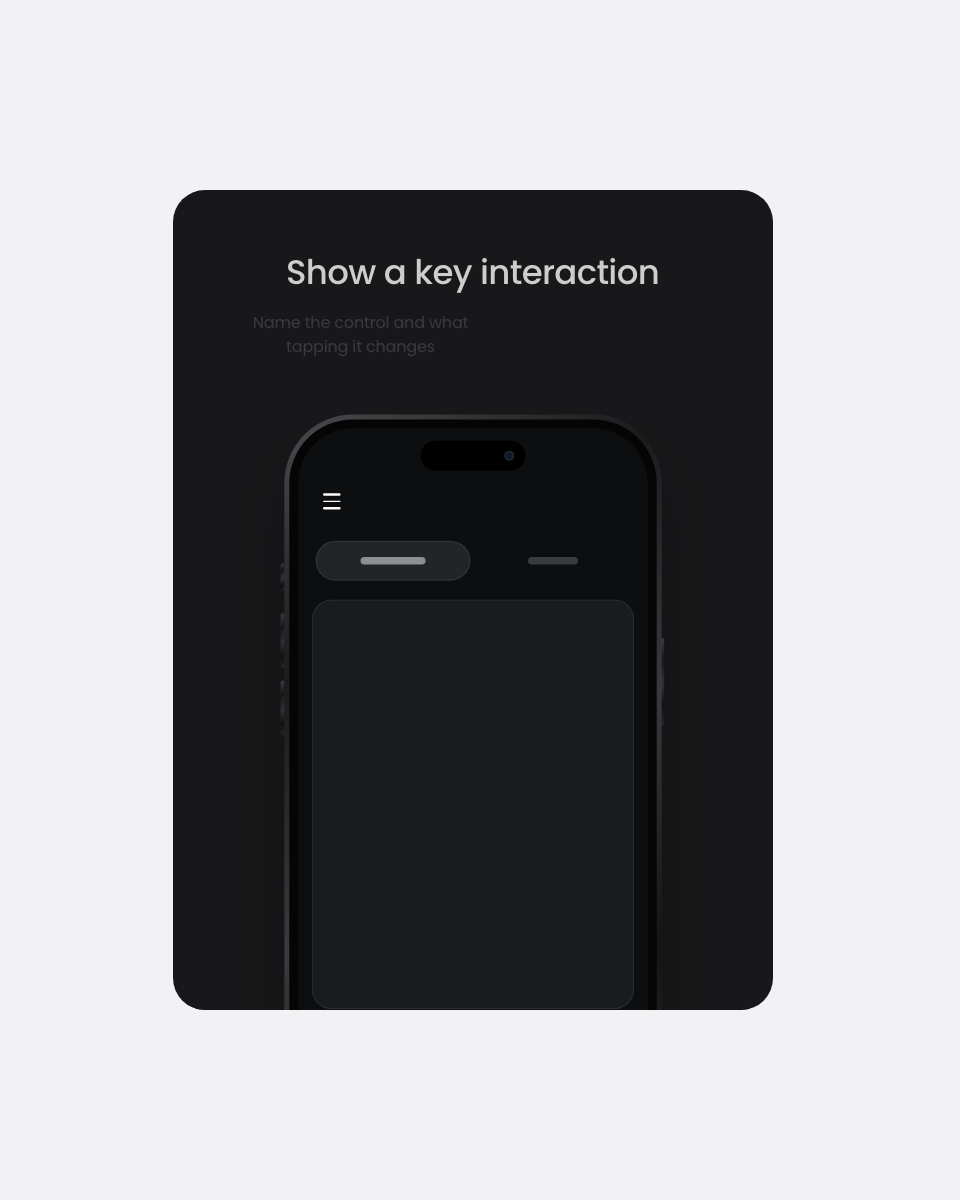
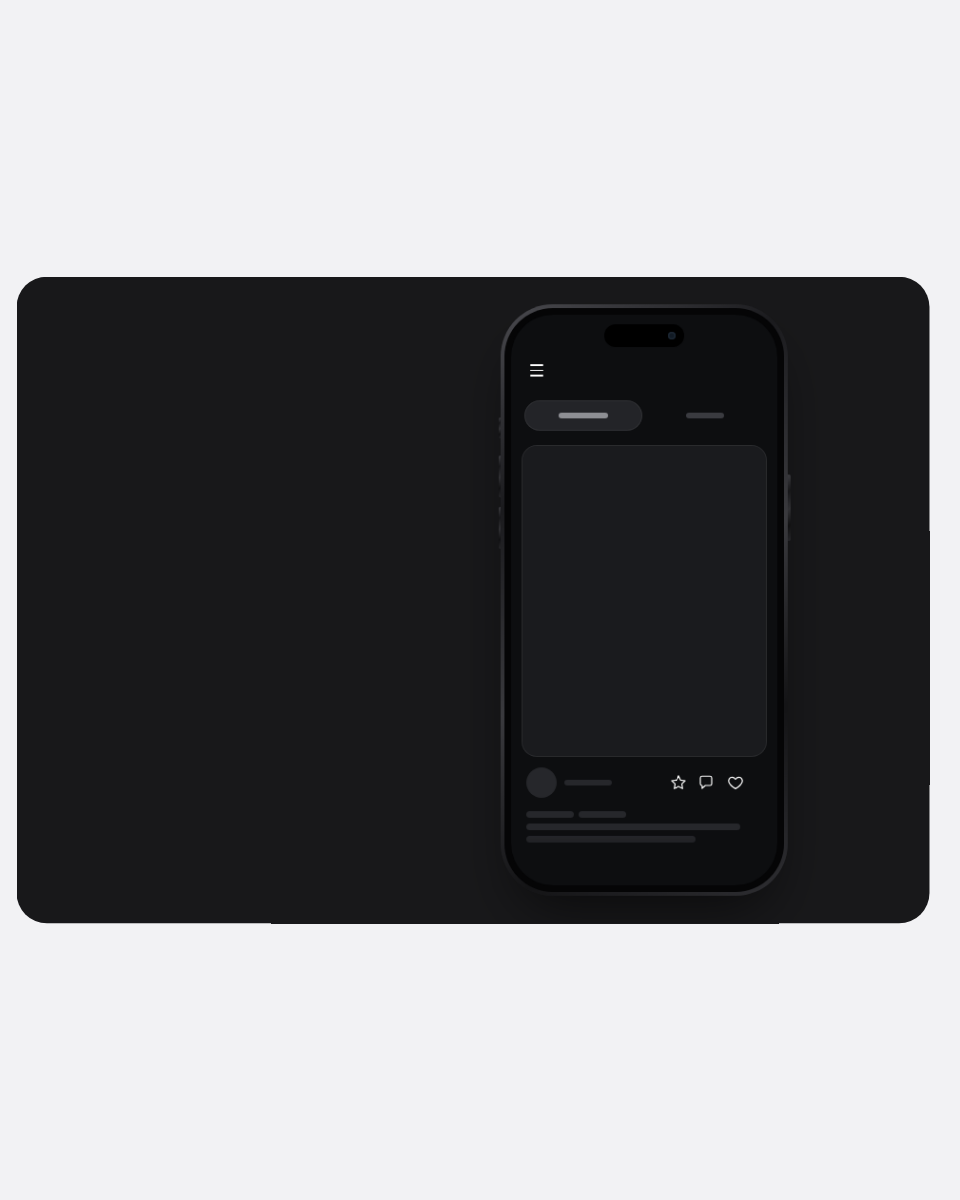
UI Walkthrough: before and after slider and labelled callout steps, capped zoom, 30px titles, credit Atomic Motion [skip deploy]

diff --git a/components/showcase/ui-walkthrough/ui-walkthrough.tsx b/components/showcase/ui-walkthrough/ui-walkthrough.tsx
@@ -22,6 +22,10 @@ export type WalkthroughStep = {
   tap?: string;
   /** Seconds into the step when the press lands. Defaults to 1.6, just after the camera settles. */
   tapAt?: number;
+  /** A before and after: this screen sits under a divider that a finger drags across the live one. */
+  compare?: (ctx: WalkthroughContext) => React.ReactNode;
+  /** Ring a data-walk element and run a short line from it to a small label beside the phone. */
+  callout?: { target: string; label: string };
 };
 
 export type WalkthroughContext = {
@@ -57,6 +61,11 @@ export type UIWalkthroughProps = {
 const PHONE_W = 280;
 const PHONE_H = 600;
 
+/** The words' column in the wide layout, and the gap the phone keeps from it however far the camera
+ *  pushes in. */
+const COPY_W = 320;
+const COPY_GAP = 40;
+
 /** Each layout's true stage size, phone centre and copy box. The stage is scaled down to fit
  *  whatever it is put in. */
 const LAYOUTS = {
@@ -65,7 +74,7 @@ const LAYOUTS = {
     h: 680,
     phone: { x: 660, y: 340 },
     viewTop: 0,
-    copy: { left: 88, top: "50%", width: 360, transform: "translateY(-50%)" },
+    copy: { left: 88, top: "50%", width: COPY_W, transform: "translateY(-50%)" },
   },
   stacked: {
     w: 600,
@@ -319,7 +328,7 @@ function Post({
     <div style={{ position: "absolute", left: 0, right: 0, top, height: POST_H }}>
       <div style={{ position: "absolute", left: 0, right: 0, top: 0, height: 328, ...ctx.enter(2) }}>{card}</div>
       <div style={{ position: "absolute", inset: 0, ...ctx.enter(3) }}>
-        <div style={{ position: "absolute", left: 5, top: 339, width: 32, height: 32, borderRadius: "50%", background: SKELETON }} />
+        <div data-walk={heart ? "avatar" : undefined} style={{ position: "absolute", left: 5, top: 339, width: 32, height: 32, borderRadius: "50%", background: SKELETON }} />
         <div style={{ ...bar(45, 352, 50), height: 6 }} />
         <Icon path={ICONS.star} style={{ position: "absolute", left: 156, top: 346 }} />
         <Icon path={ICONS.comment} style={{ position: "absolute", left: 185, top: 346 }} />
@@ -407,12 +416,46 @@ function SkeletonFeed({ ctx, fade }: { ctx: WalkthroughContext; fade: boolean })
   );
 }
 
+/** The same moment in an older, boxier, busier version of the feed, for the before and after. */
+function SkeletonFeedBefore() {
+  const dim = "#3a3b40";
+  const line = (top: number, width: number): React.CSSProperties => ({ position: "absolute", left: 16, top, width, height: 6, borderRadius: 2, background: "#2a2b2f" });
+  return (
+    <div style={{ position: "absolute", inset: 0, background: "#141518" }}>
+      {/* A solid app bar with a title block */}
+      <div style={{ position: "absolute", left: 0, right: 0, top: 0, height: 86, background: "#1d1e21" }} />
+      <span style={{ position: "absolute", left: 20, top: 56, width: 70, height: 8, borderRadius: 2, background: dim }} />
+      <span style={{ position: "absolute", right: 20, top: 52, width: 16, height: 16, borderRadius: 3, background: dim }} />
+      {/* Underlined tabs */}
+      <span style={{ position: "absolute", left: 44, top: 102, width: 52, height: 6, borderRadius: 2, background: dim }} />
+      <span style={{ position: "absolute", left: 184, top: 102, width: 40, height: 6, borderRadius: 2, background: "#6e6f74" }} />
+      <span style={{ position: "absolute", left: 140, top: 118, width: 140, height: 2, background: "#6e6f74" }} />
+      <span style={{ position: "absolute", left: 0, top: 120, width: 280, height: 1, background: "#26272b" }} />
+      {/* A smaller, square card */}
+      <div style={{ position: "absolute", left: 11, right: 11, top: 137, height: 250, borderRadius: 4, background: "#2a2b2f" }} />
+      <span style={{ position: "absolute", left: 16, top: 400, width: 30, height: 30, borderRadius: 4, background: dim }} />
+      <span style={{ position: "absolute", left: 54, top: 412, width: 60, height: 6, borderRadius: 2, background: dim }} />
+      {[168, 192, 216].map((left) => (
+        <span key={left} style={{ position: "absolute", left, top: 408, width: 14, height: 14, borderRadius: 3, background: dim }} />
+      ))}
+      <div style={line(446, 240)} />
+      <div style={line(458, 220)} />
+      <div style={line(470, 236)} />
+      <div style={line(482, 180)} />
+      <div style={line(494, 210)} />
+      <div style={{ position: "absolute", left: 11, right: 11, top: 516, height: 120, borderRadius: 4, background: "#2a2b2f" }} />
+    </div>
+  );
+}
+
 /** The default script, written for the skeleton feed. Copy it as a starting point for your own. */
 export const defaultWalkthroughSteps: WalkthroughStep[] = [
   { title: "Introduce your app", caption: "One line on what it does and who it is for", duration: 3.4 },
-  { title: "Show a key interaction", caption: "Name the control and what tapping it changes", duration: 4.2, focus: { y: TABS_Y, zoom: 1.6 }, tap: "for-you" },
+  { title: "Show a key interaction", caption: "Name the control and what tapping it changes", duration: 4.2, focus: { y: TABS_Y, zoom: 1.4 }, tap: "for-you" },
   { title: "Walk through a flow", caption: "Say what happens as the screen moves on", duration: 3.6 },
-  { title: "Highlight a detail", caption: "Point out the small touch you are proud of", duration: 4.2, focus: { y: ACTIONS_Y, zoom: 1.6 }, tap: "like" },
+  { title: "Highlight a detail", caption: "Point out the small touch you are proud of", duration: 4.2, focus: { y: ACTIONS_Y, zoom: 1.4 }, tap: "like" },
+  { title: "Show the before and after", caption: "Slide from the old screen to the new one", duration: 4.4, compare: () => <SkeletonFeedBefore /> },
+  { title: "Explain one element", caption: "Point to a part and say why it is there", duration: 4, callout: { target: "avatar", label: "Name this part" } },
   { title: "Close with the outcome", caption: "Sum up what people get from it", duration: 3 },
 ];
 
@@ -501,6 +544,9 @@ function DynamicIsland() {
   );
 }
 
+type Box = { x: number; y: number; w: number; h: number };
+const lerp = (a: number, b: number, p: number) => a + (b - a) * p;
+
 /* ------------------------------------------------------------------------- */
 /* The stage                                                                  */
 /* ------------------------------------------------------------------------- */
@@ -516,19 +562,32 @@ export function UIWalkthrough({ steps = defaultWalkthroughSteps, children, fade 
 
   // Where the tapped control sits on the phone canvas, for the touch. Measured per step;
   // dividing by the rendered width undoes both the fit scale and the camera zoom.
+  // The callout's element is measured the same way, as a box.
   const [rippleAt, setRippleAt] = React.useState<{ x: number; y: number } | null>(null);
+  const [calloutBox, setCalloutBox] = React.useState<Box | null>(null);
   React.useLayoutEffect(() => {
     const phone = phoneRef.current;
-    const target = current?.tap ? phone?.querySelector<HTMLElement>(`[data-walk="${current.tap}"]`) : null;
-    if (!phone || !target) return setRippleAt(null);
+    if (!phone) return;
     const p = phone.getBoundingClientRect();
-    const r = target.getBoundingClientRect();
     const unit = p.width / PHONE_W;
-    setRippleAt({ x: (r.left + r.width / 2 - p.left) / unit, y: (r.top + r.height / 2 - p.top) / unit });
-  }, [ctx.step, current?.tap]);
+    const box = (id?: string): Box | null => {
+      const target = id ? phone.querySelector<HTMLElement>(`[data-walk="${id}"]`) : null;
+      if (!target) return null;
+      const r = target.getBoundingClientRect();
+      return { x: (r.left - p.left) / unit, y: (r.top - p.top) / unit, w: r.width / unit, h: r.height / unit };
+    };
+    const tapBox = box(current?.tap);
+    setRippleAt(tapBox ? { x: tapBox.x + tapBox.w / 2, y: tapBox.y + tapBox.h / 2 } : null);
+    setCalloutBox(box(current?.callout?.target));
+  }, [ctx.step, current?.tap, current?.callout?.target]);
 
-  const zoom = reduced ? 1 : sample(timeline.zoom, t, cameraEase);
-  const shift = reduced ? 0 : sample(timeline.shift, t, cameraEase);
+  // The camera never pushes in so far that the phone crowds the words: in the wide layout its
+  // frame stays COPY_GAP clear of the words' column. The shift is scaled down with the zoom so the
+  // focus point still lands on the centre line.
+  const wantZoom = reduced ? 1 : sample(timeline.zoom, t, cameraEase);
+  const maxZoom = stage === LAYOUTS.split ? (stage.phone.x - (88 + COPY_W + COPY_GAP)) / (PHONE_W / 2 + BEZEL + BAND) : Infinity;
+  const zoom = Math.min(wantZoom, maxZoom);
+  const shift = (reduced ? 0 : sample(timeline.shift, t, cameraEase)) * (zoom / wantZoom);
   const land = reduced ? 1 : outEase(clamp01(t / 1.3));
   const phoneOpacity = reduced ? 1 : fadeEase(clamp01(t / 0.7));
   const outro = 1 - fadeEase(clamp01((t - (timeline.total - OUTRO)) / (OUTRO - 0.15)));
@@ -541,6 +600,25 @@ export function UIWalkthrough({ steps = defaultWalkthroughSteps, children, fade 
     const p = wordsIn(delay);
     return { opacity: Math.min(p, wordsOut), transform: reduced ? undefined : `translateY(${((1 - p) * 14).toFixed(2)}px)` };
   };
+
+  // Before and after: the old screen fades in beside the new one, a finger drags the divider once
+  // from left to right (never all the way to either edge), then the old screen fades away.
+  // `wipe` is the divider's x on the phone.
+  const comparing = current?.compare ? (reduced ? 1 : Math.min(fadeEase(clamp01(ctx.time / 0.4)), 1 - fadeEase(clamp01((ctx.time - (duration - 0.5)) / 0.4)))) : 0;
+  const wipe = current?.compare ? (reduced ? PHONE_W / 2 : sample([[0.9, PHONE_W * 0.2], [duration - 0.9, PHONE_W * 0.8]], ctx.time, cameraEase)) : 0;
+  const dragging = current?.compare && !reduced ? Math.min(clamp01((ctx.time - 0.5) / 0.3), 1 - clamp01((ctx.time - (duration - 0.9)) / 0.3)) : 0;
+
+  // Callout: the element is ringed and a line draws out from the words to it.
+  const callout = current?.callout && calloutBox ? Math.min(reduced ? 1 : outEase(clamp01((ctx.time - 0.6) / 1)), wordsOut) : 0;
+  const onStage = (x: number, y: number) => ({
+    x: stage.phone.x + (x - PHONE_W / 2) * zoom,
+    y: stage.phone.y + (y - PHONE_H / 2) * zoom + shift + (1 - land) * 40,
+  });
+  // The label sits just outside the phone on the side nearer the element, level with it.
+  const calloutLeft = calloutBox ? calloutBox.x + calloutBox.w / 2 < PHONE_W / 2 : true;
+  const lineStart = calloutBox ? onStage(calloutLeft ? calloutBox.x - 6 : calloutBox.x + calloutBox.w + 6, calloutBox.y + calloutBox.h / 2) : { x: 0, y: 0 };
+  const phoneEdge = (PHONE_W / 2 + BEZEL + BAND) * zoom;
+  const lineEnd = { x: calloutLeft ? stage.phone.x - phoneEdge - 28 : stage.phone.x + phoneEdge + 28, y: lineStart.y };
 
   // Seconds from the press, while the touch is on screen (it arrives just before and leaves just after).
   const touchT = current?.tap ? ctx.time - (current.tapAt ?? TAP_AT) : -Infinity;
@@ -557,7 +635,7 @@ export function UIWalkthrough({ steps = defaultWalkthroughSteps, children, fade 
             <div style={{ position: "absolute", ...stage.copy }}>
               {current ? (
                 <div key={ctx.step}>
-                  <div style={{ fontSize: 34, lineHeight: 1.15, fontWeight: 500, letterSpacing: "-0.02em", color: INK, ...words(0) }}>{current.title}</div>
+                  <div style={{ fontSize: 30, lineHeight: 1.15, fontWeight: 500, letterSpacing: "-0.02em", color: INK, ...words(0) }}>{current.title}</div>
                   {current.caption ? (
                     <div style={{ marginTop: 12, maxWidth: 280, fontSize: 16, lineHeight: 1.5, color: CAPTION, ...words(0.1) }}>{current.caption}</div>
                   ) : null}
@@ -601,11 +679,97 @@ export function UIWalkthrough({ steps = defaultWalkthroughSteps, children, fade 
                   }}
                 >
                   {children ? children(ctx) : <SkeletonFeed ctx={ctx} fade={fade} />}
+                  {current?.compare && comparing > 0 ? (
+                    <div style={{ position: "absolute", inset: 0, opacity: comparing }}>
+                      <div style={{ position: "absolute", inset: 0, clipPath: `inset(0 0 0 ${wipe.toFixed(2)}px)` }}>{current.compare(ctx)}</div>
+                      <span style={{ position: "absolute", left: wipe - 1, top: 0, bottom: 0, width: 2, background: "rgba(255,255,255,.9)" }} />
+                      <span
+                        style={{
+                          position: "absolute",
+                          left: wipe,
+                          top: PHONE_H / 2,
+                          width: 30,
+                          height: 30,
+                          marginLeft: -15,
+                          marginTop: -15,
+                          borderRadius: "50%",
+                          background: SCREEN,
+                          boxShadow: "inset 0 0 0 1.5px rgba(255,255,255,.9)",
+                          display: "grid",
+                          placeItems: "center",
+                        }}
+                      >
+                        <svg width={14} height={14} viewBox="0 0 24 24" aria-hidden="true">
+                          <path d="M9 7l-5 5 5 5M15 7l5 5-5 5" fill="none" stroke={ICON} strokeWidth={2} strokeLinecap="round" strokeLinejoin="round" />
+                        </svg>
+                      </span>
+                      {dragging > 0 ? (
+                        <span
+                          aria-hidden="true"
+                          style={{
+                            position: "absolute",
+                            left: wipe,
+                            top: PHONE_H / 2,
+                            width: TOUCH_SIZE,
+                            height: TOUCH_SIZE,
+                            borderRadius: "50%",
+                            background: "rgba(150,150,156,.55)",
+                            boxShadow: "inset 0 0 0 1px rgba(255,255,255,.7), 0 3px 12px rgba(0,0,0,.35)",
+                            transform: "translate(-50%, -50%)",
+                            opacity: dragging,
+                          }}
+                        />
+                      ) : null}
+                    </div>
+                  ) : null}
+                  {callout > 0 && calloutBox ? (
+                    <span
+                      aria-hidden="true"
+                      style={{
+                        position: "absolute",
+                        left: calloutBox.x - 6,
+                        top: calloutBox.y - 6,
+                        width: calloutBox.w + 12,
+                        height: calloutBox.h + 12,
+                        borderRadius: Math.min(calloutBox.w, calloutBox.h) / 2 + 6,
+                        boxShadow: "inset 0 0 0 1.5px rgba(255,255,255,.9)",
+                        opacity: callout,
+                        transform: `scale(${(1.25 - 0.25 * callout).toFixed(3)})`,
+                      }}
+                    />
+                  ) : null}
                   <DynamicIsland />
                   {touch !== null && rippleAt ? <TouchPoint at={rippleAt} t={touch} /> : null}
                 </div>
               </div>
             </div>
+            {callout > 0 && current?.callout ? (
+              <>
+                <svg aria-hidden="true" width={stage.w} height={stage.h} style={{ position: "absolute", inset: 0, pointerEvents: "none", overflow: "visible" }}>
+                  <line x1={lineStart.x} y1={lineStart.y} x2={lerp(lineStart.x, lineEnd.x, callout)} y2={lineEnd.y} stroke="rgba(255,255,255,.85)" strokeWidth={1.5} />
+                  <circle cx={lineStart.x} cy={lineStart.y} r={3} fill={ICON} />
+                </svg>
+                <div
+                  style={{
+                    position: "absolute",
+                    top: lineEnd.y,
+                    ...(calloutLeft ? { right: stage.w - lineEnd.x } : { left: lineEnd.x }),
+                    transform: `translateY(-50%) translateX(${((1 - clamp01((callout - 0.7) / 0.3)) * (calloutLeft ? 8 : -8)).toFixed(2)}px)`,
+                    opacity: clamp01((callout - 0.7) / 0.3),
+                    padding: "6px 12px",
+                    borderRadius: 999,
+                    background: "#26272b",
+                    boxShadow: HAIRLINE,
+                    color: INK,
+                    fontSize: 12,
+                    whiteSpace: "nowrap",
+                    pointerEvents: "none",
+                  }}
+                >
+                  {current.callout.label}
+                </div>
+              </>
+            ) : null}
           </div>
         </div>
       </div>

diff --git a/src/lib/component-registry.ts b/src/lib/component-registry.ts
@@ -411,7 +411,7 @@ export const componentRegistry = {
     statusClassName: "bg-[var(--jitter-orange)]/12 text-[var(--jitter-orange)]",
     createdAt: "2026-10-17",
     codePath: "components/showcase/ui-walkthrough/ui-walkthrough.tsx",
-    inspiredBy: { label: "Lumen app film", href: "https://github.com/michellesijiama/Lumen" },
+    inspiredBy: { label: "Atomic Motion", href: "https://www.figma.com/design/RREH9uRHTK7iWVvcWmXm0l/Atomic-Motion" },
   }),
 } satisfies Record<string, ComponentMeta>;
 

diff --git a/components/showcase/ui-walkthrough/README.md b/components/showcase/ui-walkthrough/README.md
@@ -7,7 +7,7 @@ A product walkthrough for portfolio case studies, a soft skeleton phone beside a
 - **Category:** Showcase
 - **Demo:** https://atomicmotion.dev/components/ui-walkthrough
 - **Dependencies:** clsx, framer-motion, tailwind-merge
-- **Inspired by:** [Lumen app film](https://github.com/michellesijiama/Lumen)
+- **Inspired by:** [Atomic Motion](https://www.figma.com/design/RREH9uRHTK7iWVvcWmXm0l/Atomic-Motion)
 
 ## Setup
 
